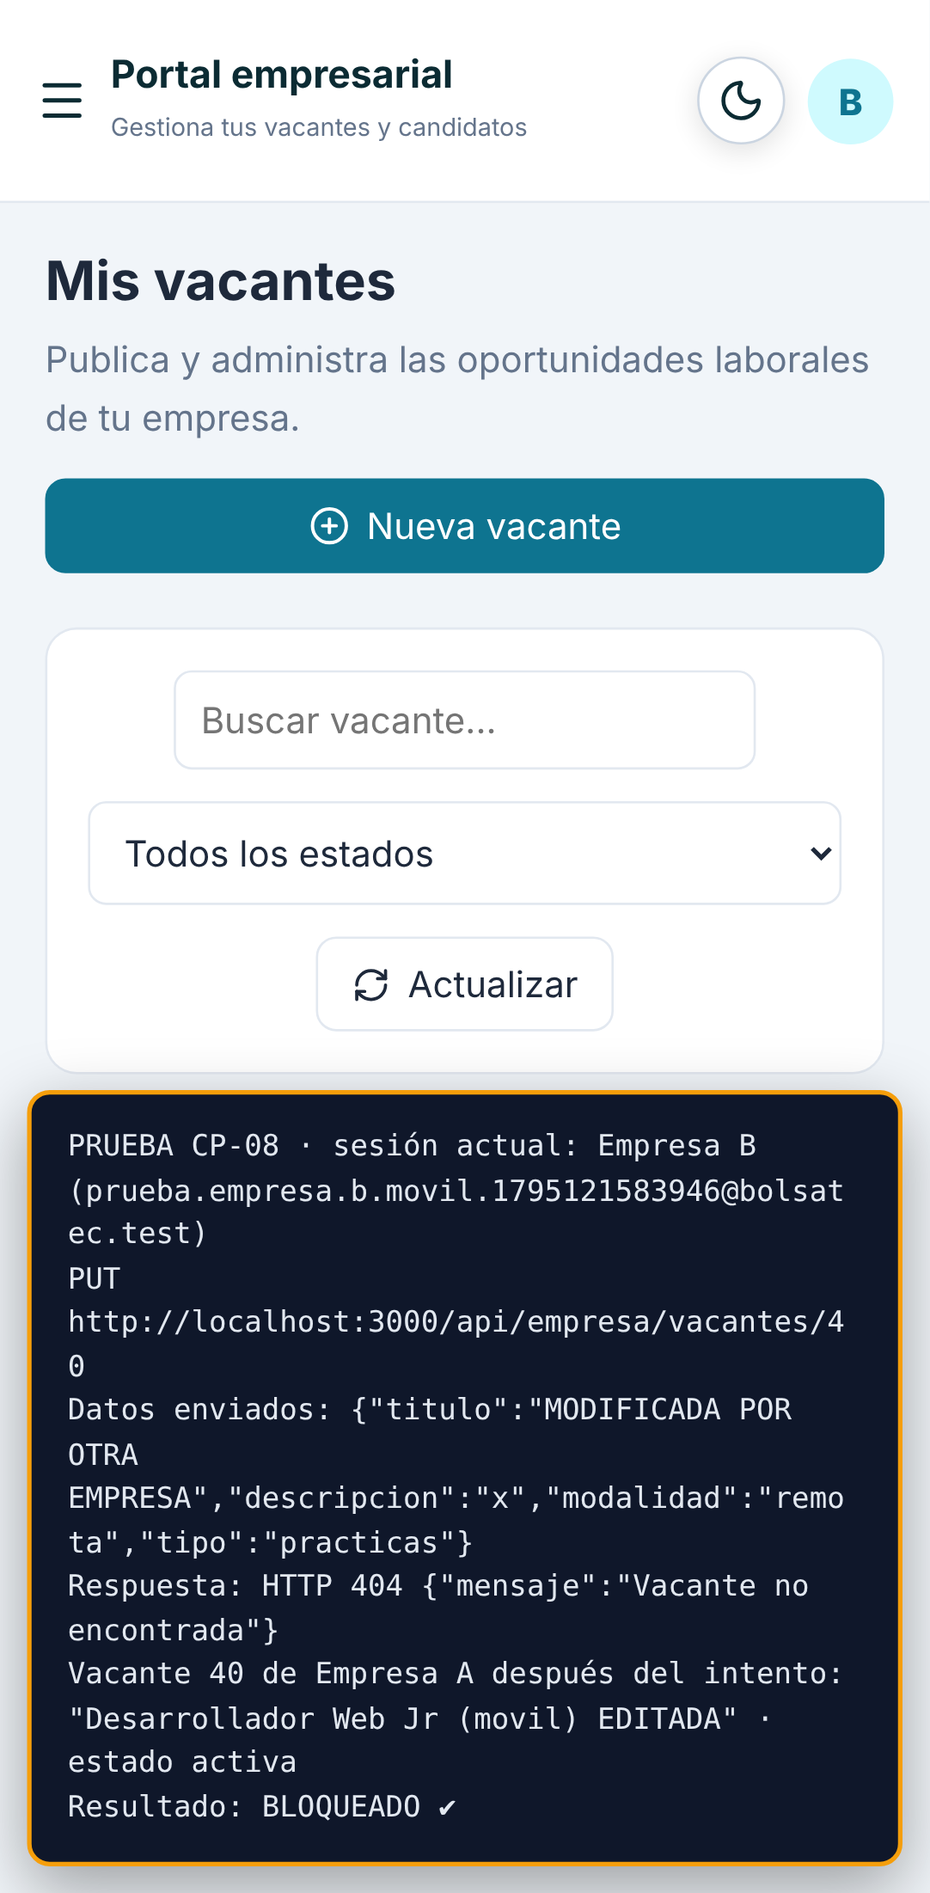
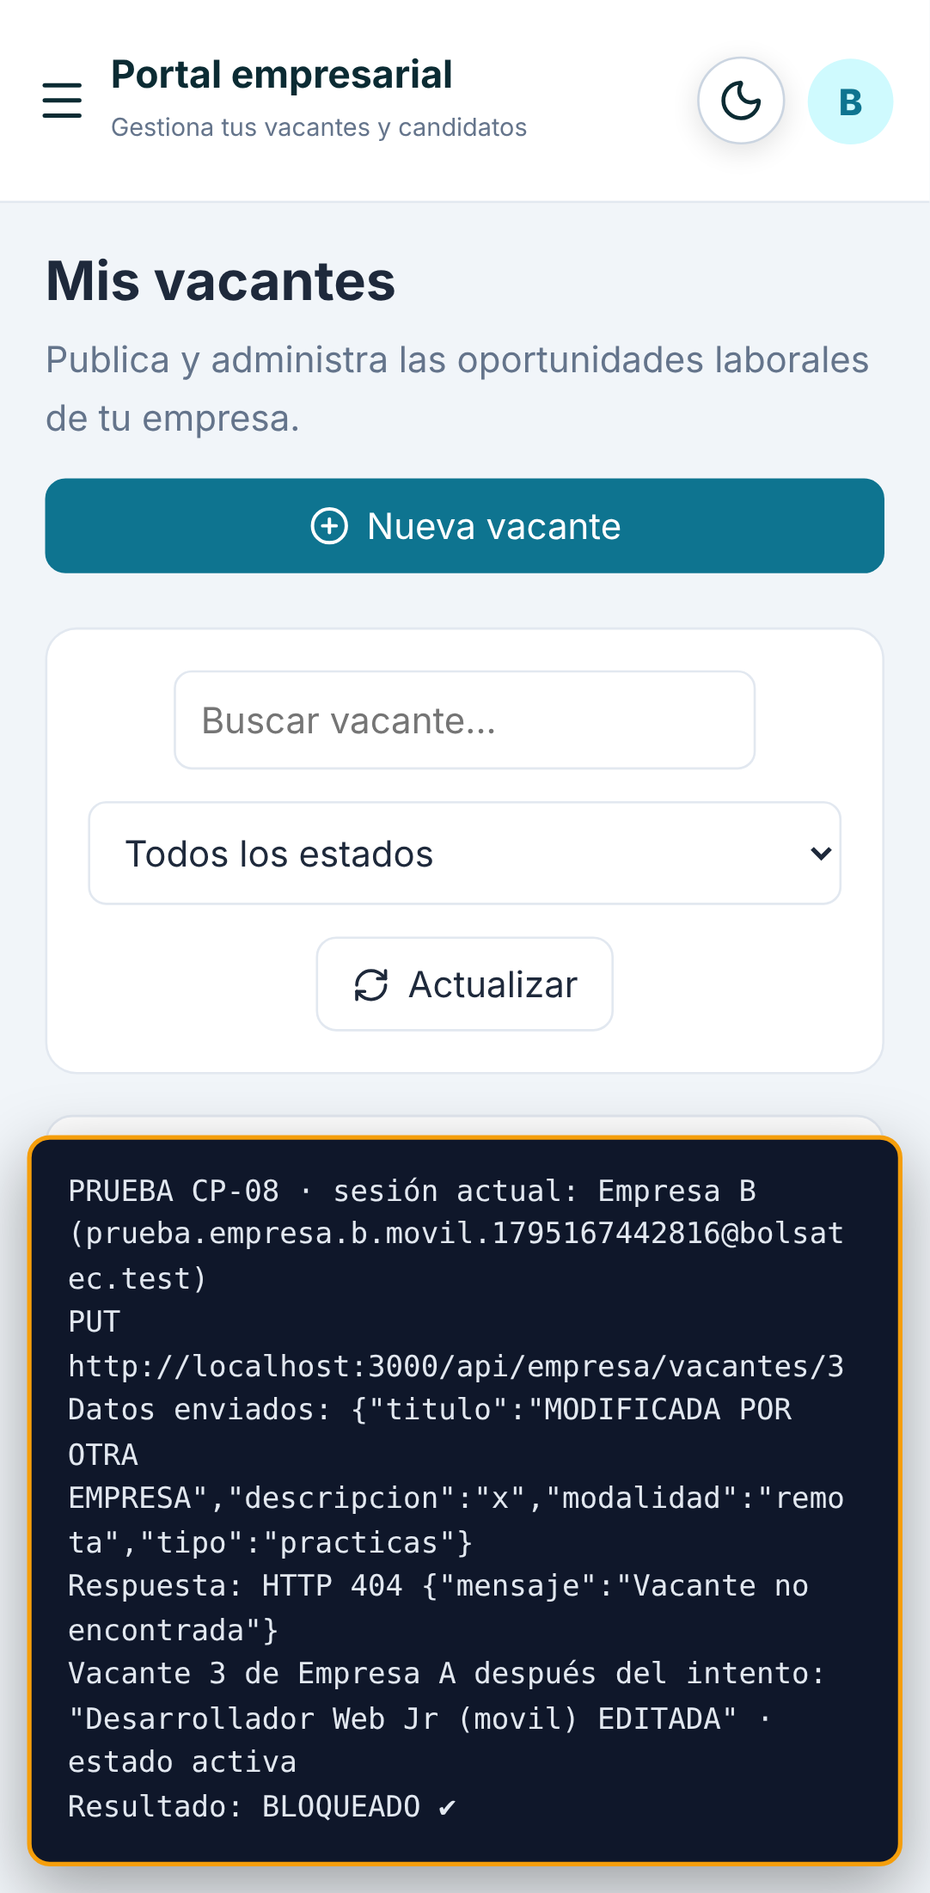
Evidencia de propiedad de vacantes en la versión actual (5205f81) y respuesta a la retroalimentación
Claude-Session: https://claude.ai/code/session_01Nzh4zgK9nVwNwLggA8F1rz

Changed region(s): [[0.0305, 0.5559, 0.976, 0.7411], [0.2135, 0.8647, 0.732, 0.8955], [0.7625, 0.8647, 0.8845, 0.8955]]

diff --git a/docs/pruebas/evidencia/README.md b/docs/pruebas/evidencia/README.md
@@ -2,32 +2,32 @@
 
 | Dato | Valor |
 |---|---|
-| Versión de la API | v1.1.0 (commit `ff16a03`) |
+| Versión de la API | v1.1.0 (commit `5205f81`) |
 | Frontend probado | http://localhost:5173 |
 | API probada | http://localhost:3000 |
 | Navegador | Chromium (Playwright) |
-| Fecha de ejecución | 2026-11-19 20:53:11 UTC |
+| Fecha de ejecución | 2026-11-20 09:37:30 UTC |
 | Resultado | **22 de 22 pasos aprobados** |
 
 Contraseña de todas las cuentas de prueba: `Prueba12345`.
 
 ## Escritorio (Chromium 1366×768)
 
-Cuentas: Empresa A = `prueba.empresa.a.escritorio.1795121578435@bolsatec.test`, Empresa B = `prueba.empresa.b.escritorio.1795121578435@bolsatec.test`
+Cuentas: Empresa A = `prueba.empresa.a.escritorio.1795167437095@bolsatec.test`, Empresa B = `prueba.empresa.b.escritorio.1795167437095@bolsatec.test`
 
 | # | Caso | Pasos | Datos | Resultado esperado | Resultado obtenido | Estado | Captura |
 |---|---|---|---|---|---|---|---|
-| 1 | CP-01 | Empresa A inicia sesión en /login ("Soy empresa") | correo=prueba.empresa.a.escritorio.1795121578435@bolsatec.test | Entra al portal empresarial y se ve la versión de la app | Portal empresarial abierto; pie: "BolsaTec v1.1.0 · ff16a03 · 2026-11-19" | ✅ Aprobado | [escritorio-01.png](escritorio-01.png) |
+| 1 | CP-01 | Empresa A inicia sesión en /login ("Soy empresa") | correo=prueba.empresa.a.escritorio.1795167437095@bolsatec.test | Entra al portal empresarial y se ve la versión de la app | Portal empresarial abierto; pie: "BolsaTec v1.1.0 · 5205f81 · 2026-11-20" | ✅ Aprobado | [escritorio-01.png](escritorio-01.png) |
 | 2 | CP-02 | Empresa A → Mis vacantes → Nueva vacante → Publicar | titulo="Desarrollador Web Jr (escritorio)", modalidad=Híbrida, tipo=Prácticas, salario 6000–8000 | Mensaje "Vacante publicada correctamente" y la vacante aparece "activa" | "Vacante publicada correctamente"; estado en la tabla: "activa" | ✅ Aprobado | [escritorio-02.png](escritorio-02.png) |
 | 3 | CP-04 | Empresa A → botón Editar → cambia título y salario → Guardar cambios | titulo="Desarrollador Web Jr (escritorio) EDITADA", salario_max=9000 | Mensaje "Vacante actualizada correctamente" y el nuevo título en la tabla | "Vacante actualizada correctamente"; la tabla muestra "Desarrollador Web Jr (escritorio) EDITADA" | ✅ Aprobado | [escritorio-03.png](escritorio-03.png) |
 | 4 | CP-05 | Empresa A → botón Pausar → confirmar | estado=pausada | La vacante cambia a "pausada" | Estado en la tabla: "pausada" | ✅ Aprobado | [escritorio-04.png](escritorio-04.png) |
 | 5 | CP-06 | Empresa A → botón Activar → confirmar | estado=activa | La vacante vuelve a "activa" | Estado en la tabla: "activa" | ✅ Aprobado | [escritorio-05.png](escritorio-05.png) |
-| 6 | CP-07 | Empresa B inicia sesión → Mis vacantes | correo=prueba.empresa.b.escritorio.1795121578435@bolsatec.test | La vacante de Empresa A NO aparece en la lista de Empresa B | La vacante de A no aparece (tabla: "No se encontraron vacantes.") | ✅ Aprobado | [escritorio-06.png](escritorio-06.png) |
-| 7 | CP-08 | Con la sesión de Empresa B se envía una edición a la vacante de A | id_vacante=39, titulo="MODIFICADA POR OTRA EMPRESA" | HTTP 404 "Vacante no encontrada"; la vacante de A no cambia | HTTP 404 "Vacante no encontrada"; vacante de A sin cambios | ✅ Aprobado | [escritorio-07.png](escritorio-07.png) |
-| 8 | CP-09 | Con la sesión de Empresa B se intenta cerrar la vacante de A | id_vacante=39, estado=cerrada | HTTP 404 "Vacante no encontrada"; la vacante de A no cambia | HTTP 404 "Vacante no encontrada"; vacante de A sin cambios | ✅ Aprobado | [escritorio-08.png](escritorio-08.png) |
-| 9 | CP-10 | Con la sesión de Empresa B se intenta eliminar la vacante de A | id_vacante=39 | HTTP 404 "Vacante no encontrada"; la vacante de A no cambia | HTTP 404 "Vacante no encontrada"; vacante de A sin cambios | ✅ Aprobado | [escritorio-09.png](escritorio-09.png) |
-| 10 | CP-08/09/10 | Empresa A vuelve a iniciar sesión → Mis vacantes | correo=prueba.empresa.a.escritorio.1795121578435@bolsatec.test | La vacante sigue con el título "Desarrollador Web Jr (escritorio) EDITADA" y estado "activa" | Vacante presente, estado "activa" | ✅ Aprobado | [escritorio-10.png](escritorio-10.png) |
-| 11 | CP-14 | Empresa A → botón Eliminar → confirmar | id_vacante=39 | Mensaje "Vacante eliminada correctamente" y la vacante desaparece | "Vacante eliminada correctamente"; ya no aparece en la tabla | ✅ Aprobado | [escritorio-11.png](escritorio-11.png) |
+| 6 | CP-07 | Empresa B inicia sesión → Mis vacantes | correo=prueba.empresa.b.escritorio.1795167437095@bolsatec.test | La vacante de Empresa A NO aparece en la lista de Empresa B | La vacante de A no aparece (tabla: "No se encontraron vacantes.") | ✅ Aprobado | [escritorio-06.png](escritorio-06.png) |
+| 7 | CP-08 | Con la sesión de Empresa B se envía una edición a la vacante de A | id_vacante=2, titulo="MODIFICADA POR OTRA EMPRESA" | HTTP 404 "Vacante no encontrada"; la vacante de A no cambia | HTTP 404 "Vacante no encontrada"; vacante de A sin cambios | ✅ Aprobado | [escritorio-07.png](escritorio-07.png) |
+| 8 | CP-09 | Con la sesión de Empresa B se intenta cerrar la vacante de A | id_vacante=2, estado=cerrada | HTTP 404 "Vacante no encontrada"; la vacante de A no cambia | HTTP 404 "Vacante no encontrada"; vacante de A sin cambios | ✅ Aprobado | [escritorio-08.png](escritorio-08.png) |
+| 9 | CP-10 | Con la sesión de Empresa B se intenta eliminar la vacante de A | id_vacante=2 | HTTP 404 "Vacante no encontrada"; la vacante de A no cambia | HTTP 404 "Vacante no encontrada"; vacante de A sin cambios | ✅ Aprobado | [escritorio-09.png](escritorio-09.png) |
+| 10 | CP-08/09/10 | Empresa A vuelve a iniciar sesión → Mis vacantes | correo=prueba.empresa.a.escritorio.1795167437095@bolsatec.test | La vacante sigue con el título "Desarrollador Web Jr (escritorio) EDITADA" y estado "activa" | Vacante presente, estado "activa" | ✅ Aprobado | [escritorio-10.png](escritorio-10.png) |
+| 11 | CP-14 | Empresa A → botón Eliminar → confirmar | id_vacante=2 | Mensaje "Vacante eliminada correctamente" y la vacante desaparece | "Vacante eliminada correctamente"; ya no aparece en la tabla | ✅ Aprobado | [escritorio-11.png](escritorio-11.png) |
 
 **1. CP-01 — Empresa A inicia sesión en /login ("Soy empresa")**
 
@@ -75,21 +75,21 @@ Cuentas: Empresa A = `prueba.empresa.a.escritorio.1795121578435@bolsatec.test`, 
 
 ## Móvil (Pixel 7, 412×915)
 
-Cuentas: Empresa A = `prueba.empresa.a.movil.1795121583946@bolsatec.test`, Empresa B = `prueba.empresa.b.movil.1795121583946@bolsatec.test`
+Cuentas: Empresa A = `prueba.empresa.a.movil.1795167442816@bolsatec.test`, Empresa B = `prueba.empresa.b.movil.1795167442816@bolsatec.test`
 
 | # | Caso | Pasos | Datos | Resultado esperado | Resultado obtenido | Estado | Captura |
 |---|---|---|---|---|---|---|---|
-| 1 | CP-01 | Empresa A inicia sesión en /login ("Soy empresa") | correo=prueba.empresa.a.movil.1795121583946@bolsatec.test | Entra al portal empresarial y se ve la versión de la app | Portal empresarial abierto; pie: "BolsaTec v1.1.0 · ff16a03 · 2026-11-19" | ✅ Aprobado | [movil-01.png](movil-01.png) |
+| 1 | CP-01 | Empresa A inicia sesión en /login ("Soy empresa") | correo=prueba.empresa.a.movil.1795167442816@bolsatec.test | Entra al portal empresarial y se ve la versión de la app | Portal empresarial abierto; pie: "BolsaTec v1.1.0 · 5205f81 · 2026-11-20" | ✅ Aprobado | [movil-01.png](movil-01.png) |
 | 2 | CP-02 | Empresa A → Mis vacantes → Nueva vacante → Publicar | titulo="Desarrollador Web Jr (movil)", modalidad=Híbrida, tipo=Prácticas, salario 6000–8000 | Mensaje "Vacante publicada correctamente" y la vacante aparece "activa" | "Vacante publicada correctamente"; estado en la tabla: "activa" | ✅ Aprobado | [movil-02.png](movil-02.png) |
 | 3 | CP-04 | Empresa A → botón Editar → cambia título y salario → Guardar cambios | titulo="Desarrollador Web Jr (movil) EDITADA", salario_max=9000 | Mensaje "Vacante actualizada correctamente" y el nuevo título en la tabla | "Vacante actualizada correctamente"; la tabla muestra "Desarrollador Web Jr (movil) EDITADA" | ✅ Aprobado | [movil-03.png](movil-03.png) |
 | 4 | CP-05 | Empresa A → botón Pausar → confirmar | estado=pausada | La vacante cambia a "pausada" | Estado en la tabla: "pausada" | ✅ Aprobado | [movil-04.png](movil-04.png) |
 | 5 | CP-06 | Empresa A → botón Activar → confirmar | estado=activa | La vacante vuelve a "activa" | Estado en la tabla: "activa" | ✅ Aprobado | [movil-05.png](movil-05.png) |
-| 6 | CP-07 | Empresa B inicia sesión → Mis vacantes | correo=prueba.empresa.b.movil.1795121583946@bolsatec.test | La vacante de Empresa A NO aparece en la lista de Empresa B | La vacante de A no aparece (tabla: "No se encontraron vacantes.") | ✅ Aprobado | [movil-06.png](movil-06.png) |
-| 7 | CP-08 | Con la sesión de Empresa B se envía una edición a la vacante de A | id_vacante=40, titulo="MODIFICADA POR OTRA EMPRESA" | HTTP 404 "Vacante no encontrada"; la vacante de A no cambia | HTTP 404 "Vacante no encontrada"; vacante de A sin cambios | ✅ Aprobado | [movil-07.png](movil-07.png) |
-| 8 | CP-09 | Con la sesión de Empresa B se intenta cerrar la vacante de A | id_vacante=40, estado=cerrada | HTTP 404 "Vacante no encontrada"; la vacante de A no cambia | HTTP 404 "Vacante no encontrada"; vacante de A sin cambios | ✅ Aprobado | [movil-08.png](movil-08.png) |
-| 9 | CP-10 | Con la sesión de Empresa B se intenta eliminar la vacante de A | id_vacante=40 | HTTP 404 "Vacante no encontrada"; la vacante de A no cambia | HTTP 404 "Vacante no encontrada"; vacante de A sin cambios | ✅ Aprobado | [movil-09.png](movil-09.png) |
-| 10 | CP-08/09/10 | Empresa A vuelve a iniciar sesión → Mis vacantes | correo=prueba.empresa.a.movil.1795121583946@bolsatec.test | La vacante sigue con el título "Desarrollador Web Jr (movil) EDITADA" y estado "activa" | Vacante presente, estado "activa" | ✅ Aprobado | [movil-10.png](movil-10.png) |
-| 11 | CP-14 | Empresa A → botón Eliminar → confirmar | id_vacante=40 | Mensaje "Vacante eliminada correctamente" y la vacante desaparece | "Vacante eliminada correctamente"; ya no aparece en la tabla | ✅ Aprobado | [movil-11.png](movil-11.png) |
+| 6 | CP-07 | Empresa B inicia sesión → Mis vacantes | correo=prueba.empresa.b.movil.1795167442816@bolsatec.test | La vacante de Empresa A NO aparece en la lista de Empresa B | La vacante de A no aparece (tabla: "No se encontraron vacantes.") | ✅ Aprobado | [movil-06.png](movil-06.png) |
+| 7 | CP-08 | Con la sesión de Empresa B se envía una edición a la vacante de A | id_vacante=3, titulo="MODIFICADA POR OTRA EMPRESA" | HTTP 404 "Vacante no encontrada"; la vacante de A no cambia | HTTP 404 "Vacante no encontrada"; vacante de A sin cambios | ✅ Aprobado | [movil-07.png](movil-07.png) |
+| 8 | CP-09 | Con la sesión de Empresa B se intenta cerrar la vacante de A | id_vacante=3, estado=cerrada | HTTP 404 "Vacante no encontrada"; la vacante de A no cambia | HTTP 404 "Vacante no encontrada"; vacante de A sin cambios | ✅ Aprobado | [movil-08.png](movil-08.png) |
+| 9 | CP-10 | Con la sesión de Empresa B se intenta eliminar la vacante de A | id_vacante=3 | HTTP 404 "Vacante no encontrada"; la vacante de A no cambia | HTTP 404 "Vacante no encontrada"; vacante de A sin cambios | ✅ Aprobado | [movil-09.png](movil-09.png) |
+| 10 | CP-08/09/10 | Empresa A vuelve a iniciar sesión → Mis vacantes | correo=prueba.empresa.a.movil.1795167442816@bolsatec.test | La vacante sigue con el título "Desarrollador Web Jr (movil) EDITADA" y estado "activa" | Vacante presente, estado "activa" | ✅ Aprobado | [movil-10.png](movil-10.png) |
+| 11 | CP-14 | Empresa A → botón Eliminar → confirmar | id_vacante=3 | Mensaje "Vacante eliminada correctamente" y la vacante desaparece | "Vacante eliminada correctamente"; ya no aparece en la tabla | ✅ Aprobado | [movil-11.png](movil-11.png) |
 
 **1. CP-01 — Empresa A inicia sesión en /login ("Soy empresa")**
 

diff --git a/docs/pruebas/resultados/vacantes-propiedad-2026-11-20-09-37-07.md b/docs/pruebas/resultados/vacantes-propiedad-2026-11-20-09-37-07.md
@@ -1,0 +1,35 @@
+# Prueba: propiedad de vacantes
+
+| Dato | Valor |
+|---|---|
+| Versión de la API | v1.1.0 (commit `5205f81`) |
+| Servidor probado | http://localhost:3000 |
+| Fecha de ejecución | 2026-11-20 09:37:07 UTC |
+| Resultado | **14 de 14 casos aprobados** |
+
+## Cuentas de prueba
+
+| Actor | Correo | Contraseña |
+|---|---|---|
+| Empresa A | prueba.empresa.a.1795167426196@bolsatec.test | Prueba12345 |
+| Empresa B | prueba.empresa.b.1795167426196@bolsatec.test | Prueba12345 |
+| Estudiante | prueba.estudiante.1795167426196@bolsatec.test | Prueba12345 |
+
+## Casos
+
+| ID | Caso | Actor | Pasos | Datos | Resultado esperado | Resultado obtenido | Estado |
+|---|---|---|---|---|---|---|---|
+| CP-01 | Empresa A inicia sesión | Empresa A | POST /api/auth/login con el correo y contraseña de Empresa A | correo=prueba.empresa.a.1795167426196@bolsatec.test | HTTP 200, token JWT y rol "empresa" | HTTP 200, rol "empresa", token recibido | ✅ Aprobado |
+| CP-02 | Empresa A publica una vacante | Empresa A | POST /api/empresa/vacantes con token de Empresa A | titulo="Desarrollador Web Jr (prueba 1795167426196)", modalidad=hibrida, tipo=practicas, salario 6000–8000 | HTTP 201, vacante creada con estado "activa" | HTTP 201 "Vacante publicada correctamente", id_vacante=1, estado="activa" | ✅ Aprobado |
+| CP-03 | Empresa A ve la vacante en "Mis vacantes" | Empresa A | GET /api/empresa/vacantes con token de Empresa A | id_vacante=1 | HTTP 200 y la lista incluye la vacante | HTTP 200, 1 vacante(s), incluye la vacante 1 | ✅ Aprobado |
+| CP-04 | Empresa A edita su vacante | Empresa A | PUT /api/empresa/vacantes/1 con token de Empresa A | titulo="Desarrollador Web Jr EDITADA (prueba 1795167426196)", salario_max=9000 | HTTP 200, título y salario actualizados | HTTP 200 "Vacante actualizada correctamente", titulo="Desarrollador Web Jr EDITADA (prueba 1795167426196)", salario_max=9000.00 | ✅ Aprobado |
+| CP-05 | Empresa A pausa su vacante | Empresa A | PATCH /api/empresa/vacantes/1/estado con token de Empresa A | estado=pausada | HTTP 200, estado "pausada" | HTTP 200 "Estado actualizado correctamente", estado="pausada" | ✅ Aprobado |
+| CP-06 | Empresa A reactiva su vacante | Empresa A | PATCH /api/empresa/vacantes/1/estado con token de Empresa A | estado=activa | HTTP 200, estado "activa" | HTTP 200 "Estado actualizado correctamente", estado="activa" | ✅ Aprobado |
+| CP-07 | Empresa B NO ve la vacante de Empresa A en "Mis vacantes" | Empresa B | Iniciar sesión como Empresa B; GET /api/empresa/vacantes con su token | correo=prueba.empresa.b.1795167426196@bolsatec.test | HTTP 200 y la lista NO incluye la vacante de A | HTTP 200, 0 vacante(s), no incluye la vacante 1 | ✅ Aprobado |
+| CP-08 | Empresa B intenta editar la vacante de Empresa A | Empresa B | PUT /api/empresa/vacantes/1 con token de Empresa B; después Empresa A consulta su vacante | titulo="MODIFICADA POR OTRA EMPRESA", salario 1–1 | HTTP 404 "Vacante no encontrada" y la vacante de A sin cambios | HTTP 404 "Vacante no encontrada"; vacante de A sin cambios | ✅ Aprobado |
+| CP-09 | Empresa B intenta cerrar la vacante de Empresa A | Empresa B | PATCH /api/empresa/vacantes/1/estado con token de Empresa B | estado=cerrada | HTTP 404 y la vacante sigue "activa" | HTTP 404 "Vacante no encontrada"; vacante de A sigue "activa" | ✅ Aprobado |
+| CP-10 | Empresa B intenta eliminar la vacante de Empresa A | Empresa B | DELETE /api/empresa/vacantes/1 con token de Empresa B | id_vacante=1 | HTTP 404 y la vacante sigue existiendo | HTTP 404 "Vacante no encontrada"; vacante de A sigue existiendo | ✅ Aprobado |
+| CP-11 | Una cuenta de estudiante intenta editar la vacante | Estudiante | PUT /api/empresa/vacantes/1 con token de estudiante | correo=prueba.estudiante.1795167426196@bolsatec.test | HTTP 403 "Acceso permitido únicamente a empresas" y la vacante sin cambios | HTTP 403 "Acceso permitido únicamente a empresas"; vacante sin cambios | ✅ Aprobado |
+| CP-12 | Petición sin iniciar sesión intenta eliminar la vacante | Anónimo | DELETE /api/empresa/vacantes/1 sin encabezado Authorization | (sin token) | HTTP 401 "Debes iniciar sesión" y la vacante sigue existiendo | HTTP 401 "Debes iniciar sesión"; vacante sigue existiendo | ✅ Aprobado |
+| CP-13 | Token JWT alterado intenta editar la vacante | Anónimo | PUT /api/empresa/vacantes/1 con la firma del token de B modificada | token con los últimos 4 caracteres cambiados | HTTP 401 "Token inválido" y la vacante sin cambios | HTTP 401 "Token inválido"; vacante sin cambios | ✅ Aprobado |
+| CP-14 | Empresa A elimina su propia vacante | Empresa A | DELETE /api/empresa/vacantes/1 con token de Empresa A; después consulta su lista | id_vacante=1 | HTTP 200 "Vacante eliminada correctamente" y ya no aparece en su lista | HTTP 200 "Vacante eliminada correctamente"; ya no aparece en la lista | ✅ Aprobado |

diff --git a/docs/pruebas/RETROALIMENTACION.md b/docs/pruebas/RETROALIMENTACION.md
@@ -1,0 +1,27 @@
+# Respuesta a la retroalimentación
+
+> "El problema, los perfiles de usuario y el modelo relacional están bien definidos. Las capturas aportan evidencia de varios casos, aunque falta identificar la versión y registrar sistemáticamente lo que ocurrió en cada prueba. Prioridad: demostrar que una empresa puede administrar sus vacantes y que otra cuenta no puede modificarlas. Registren los pasos, los datos, el resultado esperado y el obtenido. Completen la demostración en móvil y escritorio."
+
+| Observación | Qué hicimos | Dónde está la evidencia | Estado |
+|---|---|---|---|
+| **Falta identificar la versión** | La API responde `GET /api/version` con versión y commit, y el pie de página de cada panel muestra `BolsaTec v1.1.0 · <commit> · <fecha>`. Cada reporte y cada captura registran esa versión. | [README §1](README.md#1-versión-probada), captura [`escritorio-01.png`](evidencia/escritorio-01.png) / [`movil-01.png`](evidencia/movil-01.png) (pie de página) | ✅ Atendido |
+| **Registrar sistemáticamente cada prueba** | 14 casos de prueba con ID (CP-01 a CP-14). Cada ejecución genera automáticamente un reporte con: ID, actor, **pasos, datos, resultado esperado, resultado obtenido** y aprobado/fallido, en `.md` y `.json`. | [`resultados/`](resultados/), [`evidencia/README.md`](evidencia/README.md) | ✅ Atendido |
+| **Empresa administra sus vacantes** | Empresa A publica (CP-02), consulta (CP-03), edita (CP-04), pausa (CP-05), reactiva (CP-06) y elimina (CP-14) su vacante. | Reporte de API y capturas 01–05 y 11 | ✅ 6/6 aprobados |
+| **Otra cuenta no puede modificarlas** | Empresa B no ve la vacante (CP-07) y recibe 404 al editar, cerrar o eliminar (CP-08–10); un estudiante recibe 403 (CP-11); sin sesión o con token alterado, 401 (CP-12–13). Después de cada intento, Empresa A vuelve a consultar su vacante y se confirma que **no cambió**. | Reporte de API y capturas 06–10 | ✅ 7/7 aprobados |
+| **La prueba realmente detecta fallos** | Quitamos a propósito el filtro `AND id_empresa = ...` del backend: la prueba marcó CP-08–13 como **FALLIDOS**. Restauramos el código. | [README §4](README.md#4-resultados-registrados) | ✅ Verificado |
+| **Demostración en móvil y escritorio** | El mismo recorrido de 11 pasos se ejecutó en escritorio (1366×768) y en móvil (Pixel 7, 412×915, táctil). En móvil las vacantes se muestran como tarjetas y se navega con el menú hamburguesa. | `evidencia/escritorio-*.png`, `evidencia/movil-*.png` | ✅ 22/22 pasos |
+
+## Ejecución vigente
+
+| Dato | Valor |
+|---|---|
+| Versión | **v1.1.0, commit `5205f81`** |
+| Fecha | 2026-11-20 |
+| Base de datos | PostgreSQL 16 local de pruebas (no producción) |
+| API | **14 de 14** casos aprobados — [`vacantes-propiedad-2026-11-20-09-37-07.md`](resultados/vacantes-propiedad-2026-11-20-09-37-07.md) |
+| Navegador | **22 de 22** pasos aprobados (11 escritorio + 11 móvil) — [`evidencia/README.md`](evidencia/README.md) |
+
+## Pendiente (lo hace el equipo)
+
+- **Teléfono real:** el modo móvil es una emulación de Chromium. Para cerrar por completo el punto, una persona del equipo debe repetir el recorrido en un teléfono físico contra el sistema desplegado, llenando la plantilla de la [sección 6 del README](README.md#6-plantilla-para-pruebas-manuales-teléfono-real--escritorio) (anotar la versión del pie de página, el modelo del teléfono, el navegador y adjuntar capturas).
+- **Presentación:** mostrar en vivo CP-02 → CP-04 → CP-07 → CP-08 (con verificación) en ambos dispositivos; es la secuencia que responde directamente a la prioridad señalada.

diff --git a/docs/pruebas/README.md b/docs/pruebas/README.md
@@ -8,8 +8,8 @@ Cada ejecución queda ligada a una versión concreta del sistema:
 
 | Dónde | Qué muestra |
 |---|---|
-| `GET /api/version` | `{ "version": "1.1.0", "commit": "ff16a03", ... }` |
-| Pie de página de los paneles | `BolsaTec v1.1.0 · ff16a03 · 2026-11-19` (versión · commit · fecha de compilación) |
+| `GET /api/version` | `{ "version": "1.1.0", "commit": "5205f81", ... }` |
+| Pie de página de los paneles | `BolsaTec v1.1.0 · 5205f81 · 2026-11-20` (versión · commit · fecha de compilación) |
 
 La versión sale de `package.json` y el commit de git (o de `VERCEL_GIT_COMMIT_SHA` / `RENDER_GIT_COMMIT` al desplegar). Los reportes y las capturas incluyen ambos datos.
 
@@ -48,7 +48,7 @@ En los casos de bloqueo (CP-08 a CP-13), la prueba no solo revisa el código HTT
 | Navegador, **escritorio** (1366×768) | Recorrido completo en la interfaz | [`evidencia/README.md`](evidencia/README.md), capturas `escritorio-*.png` |
 | Navegador, **móvil** (Pixel 7, 412×915) | El mismo recorrido con el menú móvil | [`evidencia/README.md`](evidencia/README.md), capturas `movil-*.png` |
 
-Última ejecución: **v1.1.0, commit `ff16a03`, 2026-11-19**. API: 14 de 14 casos aprobados; navegador: 22 de 22 pasos aprobados (11 en escritorio y 11 en móvil).
+Última ejecución: **v1.1.0, commit `5205f81`, 2026-11-20** (reporte de API: [`vacantes-propiedad-2026-11-20-09-37-07.md`](resultados/vacantes-propiedad-2026-11-20-09-37-07.md)). La ejecución anterior (commit `ff16a03`, 2026-11-19) se conserva en `resultados/` como historial. API: 14 de 14 casos aprobados; navegador: 22 de 22 pasos aprobados (11 en escritorio y 11 en móvil).
 
 > El modo móvil es una emulación de Chromium (tamaño de pantalla, táctil y user agent de un Pixel 7). Para completar la evidencia en un **teléfono real**, usen la plantilla de la sección 6.
 
